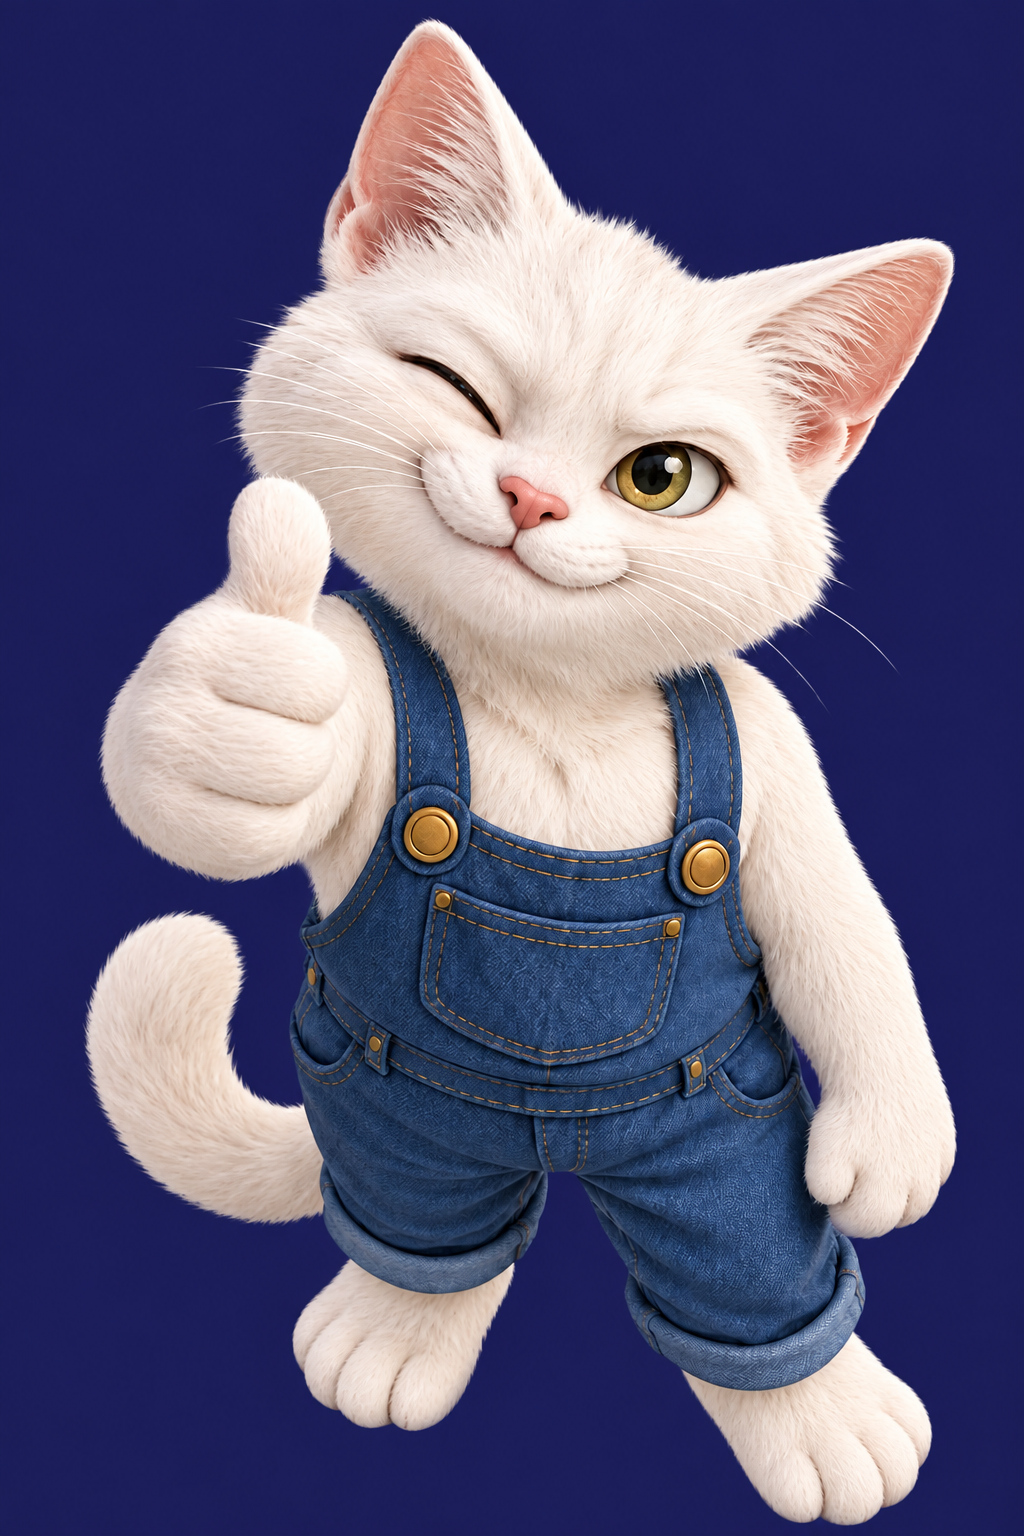
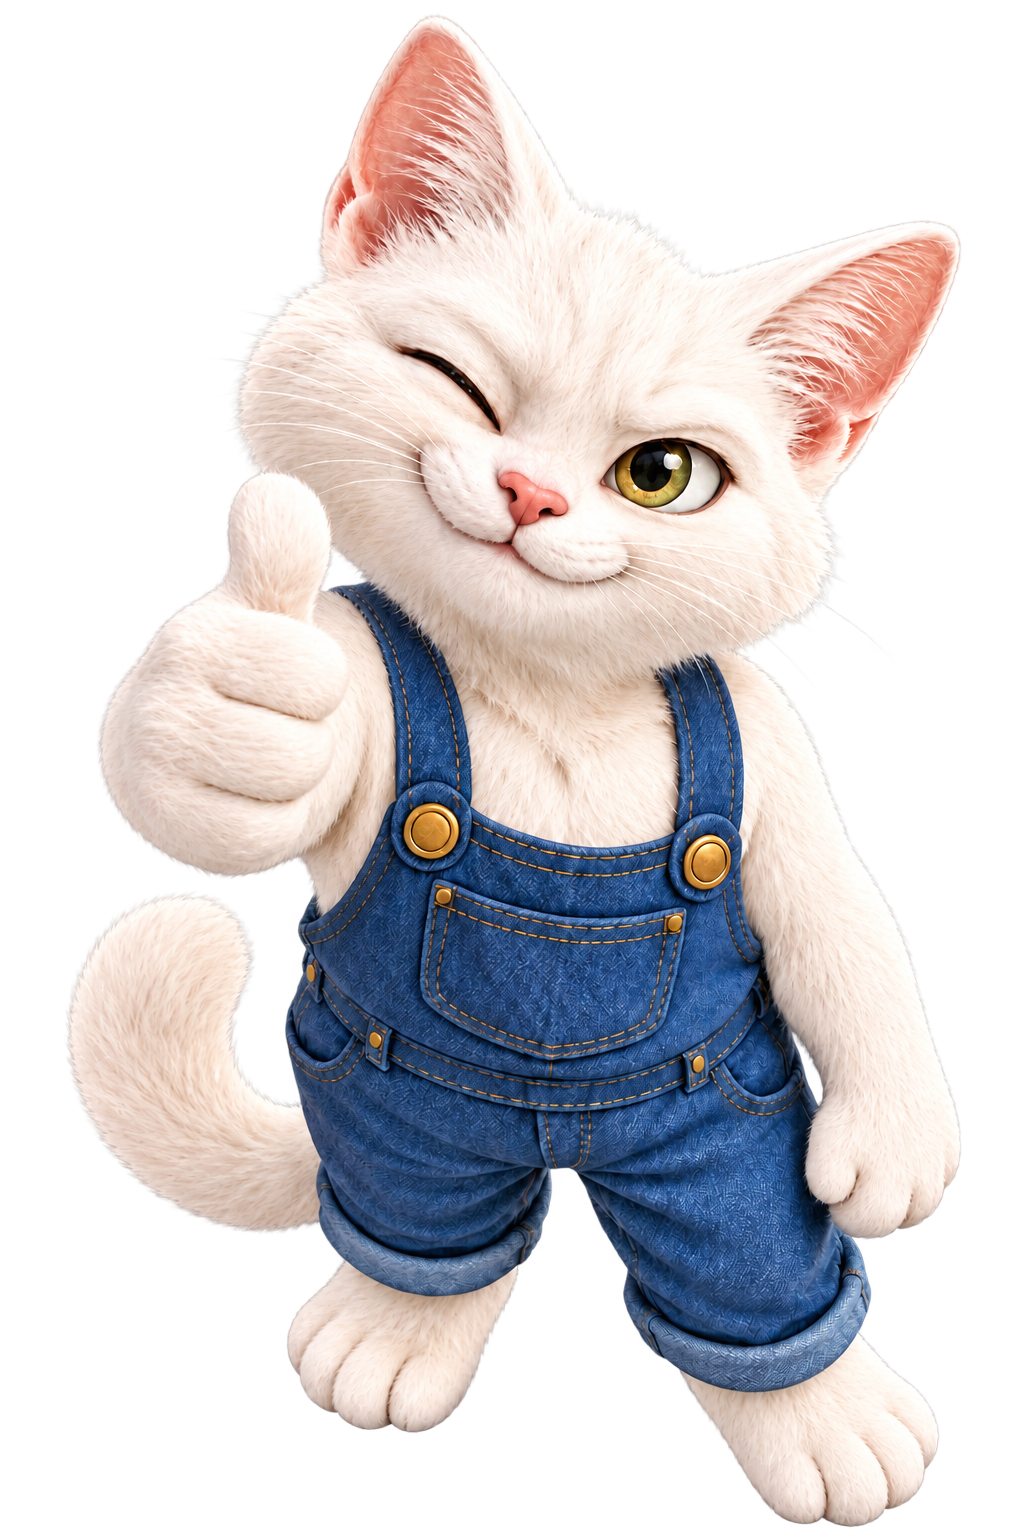
Use transparent cat PNG without background panel

diff --git a/app.js b/app.js
@@ -19,7 +19,7 @@ function testAudioPlaying(active){const button=document.getElementById('testAudi
 function stopAudio(){testAudioPlaying(false);if(speech){speech.pause();speech.currentTime=0;speech=null;}const status=document.getElementById('audioStatus');if(status)status.textContent='';}
 function speak(id,rate=1){stopAudio();const audio=document.getElementById('examAudio');if(!audio)return;audio.src='assets/audio/'+id+'.wav'+(id==='t3-listening'?'?v=music-1':id==='t2-dictation'?'?v=three-words-1':id==='t2-listening'?'?v=school-sentence-1':id.startsWith('t2-')?'?v=sentences-1':'');audio.playbackRate=rate;audio.preservesPitch=true;speech=audio;const status=document.getElementById('audioStatus');if(status)status.textContent='';audio.onplaying=()=>{testAudioPlaying(id==='test');if(status)status.textContent='';};audio.onpause=()=>testAudioPlaying(false);audio.onwaiting=()=>testAudioPlaying(false);audio.onended=()=>{testAudioPlaying(false);if(status)status.textContent='';speech=null;};audio.onerror=()=>{testAudioPlaying(false);if(status)status.textContent='No se pudo reproducir. Avisa al profesor.';};audio.play().catch(error=>{if(error.name!=='AbortError'){testAudioPlaying(false);if(status)status.textContent='No se pudo reproducir. Toca Escuchar de nuevo.';}});}
 function audioPlayer(){return '<audio id="examAudio" preload="none"></audio><span id="audioStatus" class="audio-status" role="status" aria-live="polite"></span>';}
-function startScreen(){if(state)return state.done?results():state.readyToSubmit?review():renderQuestion();view='start';stopAudio();app.innerHTML=`<div class="intro"><section class="card dark"><h1>Evaluación<br>de inglés</h1><p class="muted">Responde los cinco temas.</p><div class="stats"><div><strong>45</strong><span>ejercicios breves</span></div><div><strong>5</strong><span>temas</span></div><div><strong>90</strong><span>min aprox.</span></div></div><div class="topics-content"><ul class="topic-list">${TOPICS.map(t=>`<li>${esc(t)}</li>`).join('')}</ul><img class="exam-cat" src="assets/exam-cat.png" alt="Gatito feliz con peto azul y pulgar levantado, listo para la evaluación" width="1024" height="1536"></div></section><section class="card"><div class="eyebrow">Datos del alumno</div><h2>Registra tus datos</h2><form id="startForm"><label class="field" for="name">Nombre completo<input id="name" required maxlength="100" autocomplete="name" placeholder="Escribe tu nombre"></label><label class="field" for="group">Cuatrimestre<select id="group" required><option value="">Selecciona tu cuatrimestre</option><option value="Sexto cuatrimestre">Sexto cuatrimestre</option><option value="Tercer cuatrimestre">Tercer cuatrimestre</option></select></label><div class="audio-box">${audioPlayer()}<div class="row" style="margin-top:12px"><button type="button" id="testAudio">Probar audio</button><button type="button" id="stopAudio">Detener</button></div></div><button class="primary wide" type="submit">Iniciar prueba</button></form></section></div>`;
+function startScreen(){if(state)return state.done?results():state.readyToSubmit?review():renderQuestion();view='start';stopAudio();app.innerHTML=`<div class="intro"><section class="card dark"><h1>Evaluación<br>de inglés</h1><p class="muted">Responde los cinco temas.</p><div class="stats"><div><strong>45</strong><span>ejercicios breves</span></div><div><strong>5</strong><span>temas</span></div><div><strong>90</strong><span>min aprox.</span></div></div><div class="topics-content"><ul class="topic-list">${TOPICS.map(t=>`<li>${esc(t)}</li>`).join('')}</ul><img class="exam-cat" src="assets/exam-cat.png?v=transparent-1" alt="Gatito feliz con peto azul y pulgar levantado, listo para la evaluación" width="1024" height="1536"></div></section><section class="card"><div class="eyebrow">Datos del alumno</div><h2>Registra tus datos</h2><form id="startForm"><label class="field" for="name">Nombre completo<input id="name" required maxlength="100" autocomplete="name" placeholder="Escribe tu nombre"></label><label class="field" for="group">Cuatrimestre<select id="group" required><option value="">Selecciona tu cuatrimestre</option><option value="Sexto cuatrimestre">Sexto cuatrimestre</option><option value="Tercer cuatrimestre">Tercer cuatrimestre</option></select></label><div class="audio-box">${audioPlayer()}<div class="row" style="margin-top:12px"><button type="button" id="testAudio">Probar audio</button><button type="button" id="stopAudio">Detener</button></div></div><button class="primary wide" type="submit">Iniciar prueba</button></form></section></div>`;
  document.getElementById('testAudio').onclick=()=>speak('test');document.getElementById('stopAudio').onclick=stopAudio;
  document.getElementById('startForm').onsubmit=e=>{e.preventDefault();if(state)return;const name=document.getElementById('name').value.trim(),group=document.getElementById('group').value.trim();if(!name||!['Sexto cuatrimestre','Tercer cuatrimestre'].includes(group)){notice('Escribe tu nombre completo y selecciona tu cuatrimestre.');return;}state={version:VERSION,name,group,started:new Date().toISOString(),ids:[1,2,3,4,5].flatMap(t=>shuffle(BANK.filter(q=>q.topic===t)).map(q=>q.id)),answers:{},orderings:{},issues:{},plays:{},index:0,done:false};BANK.forEach(q=>{if(q.choices)state.orderings[q.id]=shuffle(q.choices);if(q.tokens)state.orderings[q.id]=shuffle(q.tokens.map((_,i)=>i));if(q.pairs)state.orderings[q.id]=shuffle(q.pairs.map(p=>p[1]));});save();renderQuestion();};
 }

diff --git a/ifr.css b/ifr.css
@@ -25,7 +25,7 @@ h2{font-size:23px;line-height:1.3;letter-spacing:-.7px;margin:12px 0 24px}
 .topic-list li::before{content:none}
 .topics-content{display:grid;grid-template-columns:minmax(0,1fr) clamp(120px,34%,170px);gap:14px;align-items:center;margin-top:20px;padding-top:10px;border-top:1px solid #b2f8aa30}
 .topics-content .topic-list{margin:0;padding:0;border:0}
-.exam-cat{display:block;width:100%;height:auto;mask-image:linear-gradient(to right,transparent,#000 5%,#000 95%,transparent);border-radius:12px}
+.exam-cat{display:block;width:100%;height:auto;}
 .dark h1,.stats strong,.stats span,.topic-list li{color:#fff;text-shadow:.5px 0 1px #2ce51e66,-.5px 0 1px #2ce51e66,0 .5px 1px #2ce51e66,0 -.5px 1px #2ce51e66,0 0 5px #2ce51e40,0 0 12px #2ce51e1c}
 .intro>.card:not(.dark){padding-top:27px;padding-bottom:36px}
 .intro h2{font-size:26px;margin:6px 0 22px}
